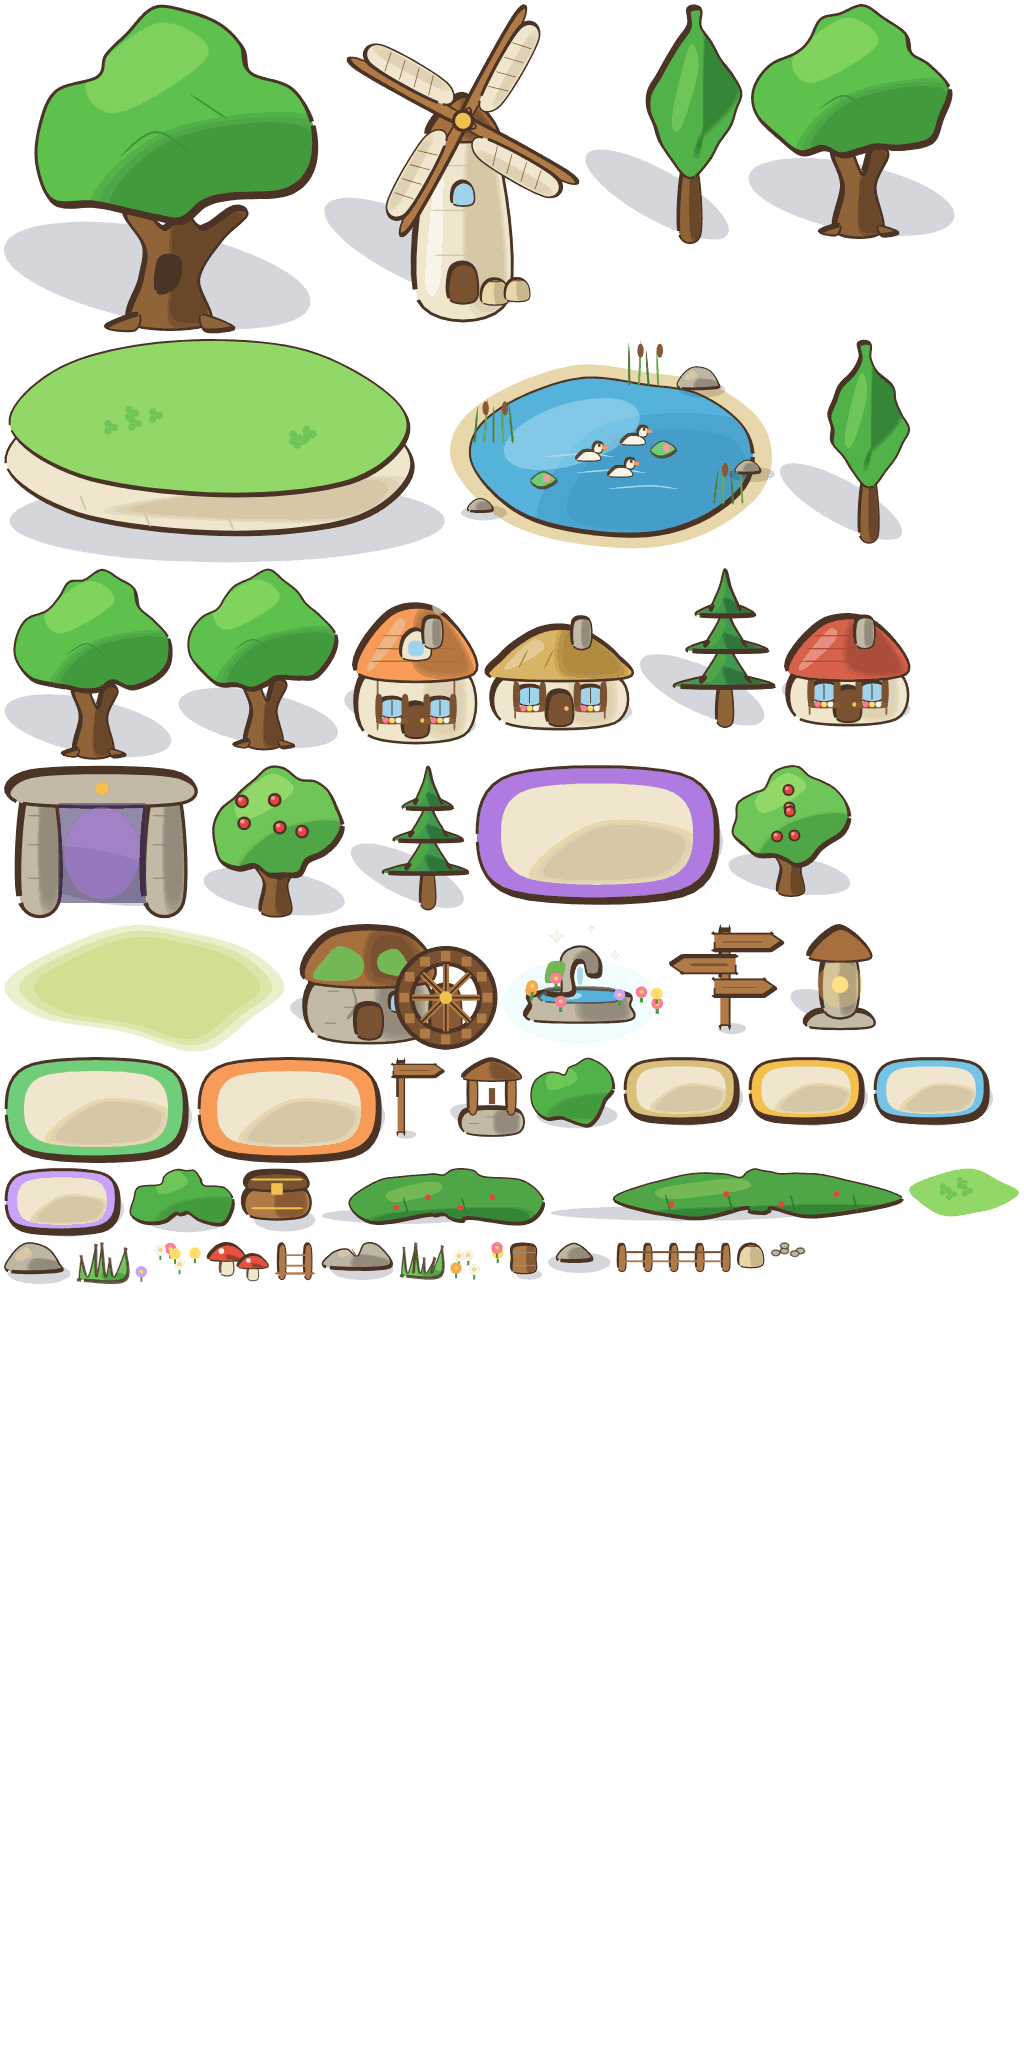
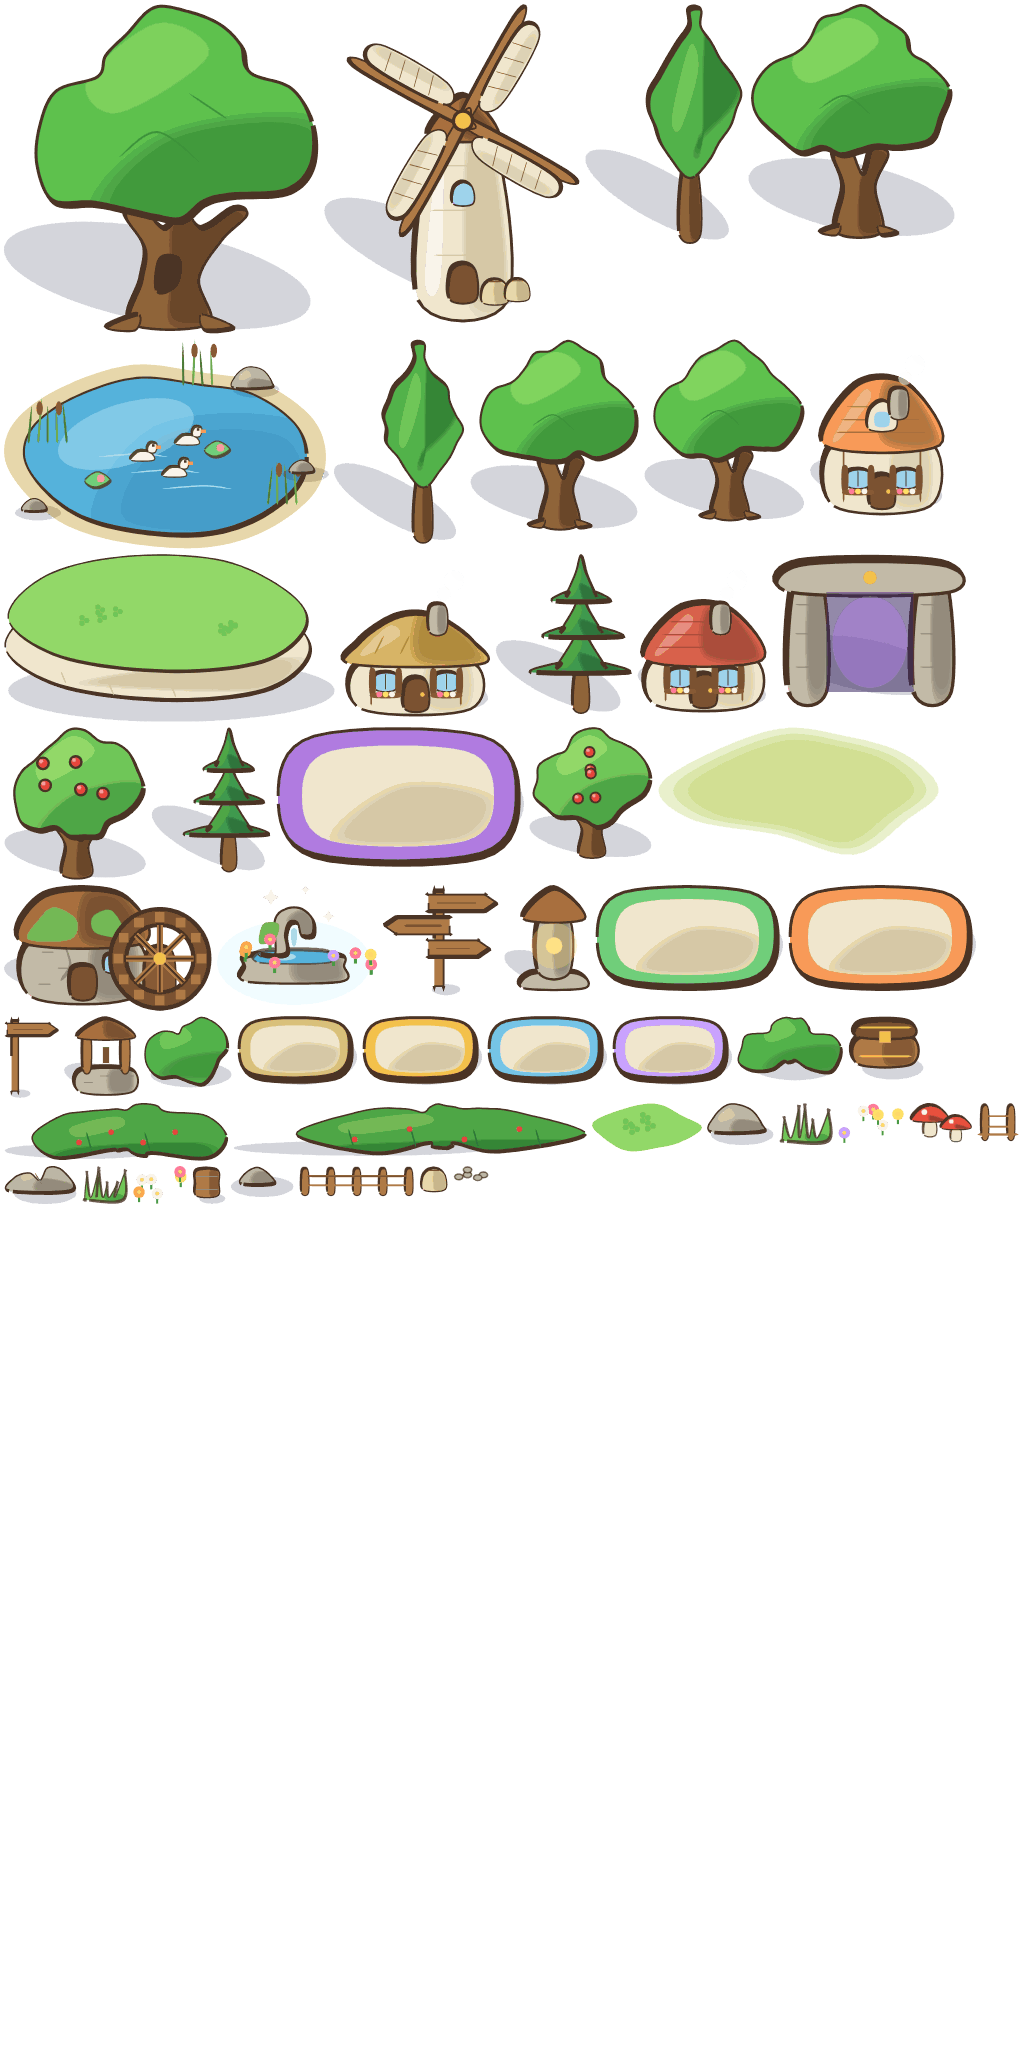
The Cloverfield kit's corrected placement (83 props inside the area's real bounds) and a smaller hill; the area's bounds and the hero's board size corrected in the art list

diff --git a/Game Developer/assets/board_meadows/NOTES.md b/Game Developer/assets/board_meadows/NOTES.md
@@ -1,43 +1,35 @@
 # The Cloverfield Meadows board kit
 
 Mitch, AD, 2026-11-01. Copy the whole folder. Sizes are design pixels (world pixels on the board); the files are 2x, so draw
-them at 0.5. 276 KB in all, against the area kit's 2.5 MB for board and fight together. Decoded: `board_props` 8 MB
+them at 0.5. About 280 KB in all, against the area kit's 2.5 MB for board and fight together. Decoded: `board_props` 8 MB
 (1024 by 2048), `board_ground` 4 MB, `cover` 1 MB.
 
-`puddlewick.jpg`, `crossroads.jpg` and `whole.jpg` are this kit laid on your real graph (world.json's hubs and roads, your
-`roadPoints` formula, 60 spots, camera at 0.8 and 0.27), by the studio's tool from these same atlases. They are not
-screenshots of the game.
+`puddlewick.jpg`, `crossroads.jpg` and `whole.jpg` are this kit laid on your real graph by the studio's tool, from these same
+atlases. They are not screenshots of the game.
 
 ## How to lay it
 
 - **Ground:** `ground_a` to `ground_d` at random per 128 px cell from the world seed, mostly a and b. They share one base
-  colour at their edges, so they mix without showing squares. Use `ground_worn` round hubs if you like; the `worn` prop does
-  the same job for less. Tiles are 1 px extruded; draw them 128 apart.
-- **Roads, two ways:** either repeat `road_straight` along the curve, turned to it (it has no directional shadow, so any angle
-  works), with `road_end` at each spot and `road_junction` at each hub; or stroke the curve in code with three lines, which
-  costs no texture and I would try it first: 30 px `#b4935a`, 25 px `#d9bb7e`, 10 px `#ecd49c` at 0.8 alpha, round joins.
-  `road_bend` and `road_fork` are there if you lay by pieces; the layout did not need them.
+  colour at their edges, so they mix without showing squares. Tiles are 1 px extruded.
+- **Roads:** stroke the curve in code with three lines: 30 px `#b4935a`, 25 px `#d9bb7e`, 10 px `#ecd49c` at 0.8 alpha, round
+  joins. Or repeat `road_straight` along the curve, turned to it, with `road_end` at each spot and `road_junction` at each hub.
 - **Spots:** `spot_<kind>`, the pivot at the centre, where the token stands: wild 56 wide, town and shop 90, chest, spring and
-  shrine 56, the gate 120. Clean plates with the kind in the rim's colour and nothing on them (Robin, 2026-11-01); the name or
-  kind comes from your tooltip on touch.
-- **Props:** pivot at the foot, shadows baked in. Sort by the foot's y, with the token in the same sort. Do not flip them: the
+  shrine 56, the gate 120. Clean plates with the kind in the rim's colour and nothing on them (Robin, 2026-11-01).
+- **Props:** pivot at the foot, shadows baked in. Sort by the foot's y with the token in the same sort. Do not flip them: the
   shadow falls to the lower right on every piece. `clover`, `worn` and `hill` are flat: draw them before the roads.
-- **Placement:** `placement_cloverfield.json` is every prop for the hand-laid area as `{ name, x, y, hub? }` in world pixels,
-  ready to load: the landmarks by their hubs and the seeded clusters. It keeps each piece's whole body clear of the roads and
-  spots. For grown areas the rule is in `tools/kit/board_test.js`: clusters of up to four pieces from one mix, 170 px apart,
-  190 from a hub (240 from a town), rejecting any place whose body would cover a road or a spot.
-- **The hill and the windmill:** draw `hill` flat, then the windmill stands on its top, as in the file.
-- **Cover:** `cover.png`, 256 square, seamless soft cloud, full colour; your 70 percent dark can go over it or be dropped.
-- **Cliff and rims:** `cliff` repeats sideways, its top meeting the upper ground. `rim_north` is the map's far edge with land
-  at the bottom; `rim_south` is the near edge with a low chalk face, drawn flipped vertically. No east or west rim and no
-  corners yet: tell me if the map's sides show and I will draw them.
+- **Placement:** `placement_cloverfield.json` lists every prop as `{ name, x, y, hub? }` in world pixels, ready to load. It keeps
+  each piece's whole body clear of the roads and spots and inside the area's bounds as the game reports them (x 140 to 1240,
+  stopping where Thornwood begins; y 2120 to 3592). The first version assumed the 1400 wide in `docs/art-demands.md` and put
+  props past the edge; replace it. For grown areas the rule is in `tools/kit/board_test.js`.
+- **The hill and the windmill:** draw `hill` flat; the windmill stands 40 px above the hill's foot, as in the file.
+- **Cover:** `cover.png`, 256 square, seamless soft cloud, full colour.
 - **Plates:** `name_plate.png` 120 by 28 and `area_banner.png` 400 by 60, for your words.
+- **Not needed for now:** `cliff`, `rim_north`, `rim_south`, `road_bend`, `road_fork` (the world has no heights or coast).
 
 ## Not tested, and left out
 
-Not yet seen in the game. The cliff and the rims were checked as repeats, not laid on a map, because the world data has no
-heights or coast; the area's hub layout decides whether they are needed at all. The horizon strips are left out (they are
-last in your list); `far.png` from the fight kit can stand in. The windmill's sails and the smoke do not move yet.
+The horizon strips are left out; `far.png` from the fight kit can stand in. The windmill's sails and the smoke do not move yet.
+The cliff and the rims were checked as repeats only.
 
 ## The props and the spots (`board_props`, pivot at the foot)
 
@@ -78,7 +70,7 @@ last in your list); `far.png` from the fight kit can stand in. The windmill's sa
 | `signpost_one` | wild ground | 29 by 42 | 6, 38 |
 | `signpost_three` | Clover Crossroads | 59 by 57 | 29, 51 |
 | `stile` | Hedgerow | 22 by 21 | 11, 18 |
-| `hill` | Windmill Hill, under the windmill; a flat piece, draw it before the roads; its top is 34 design px above the foot x 1.6 | 222 by 113 | 103, 101 |
+| `hill` | Windmill Hill, under the windmill; a flat piece, draw it before the roads; the windmill stands 40 design px above its foot | 167 by 85 | 77, 76 |
 | `windmill` | Windmill Hill | 129 by 161 | 70, 149 |
 | `old_mill` | Old Mill | 105 by 64 | 40, 57 |
 | `pond` | Duck Pond | 164 by 106 | 83, 92 |

diff --git a/Game Developer/docs/art-demands.md b/Game Developer/docs/art-demands.md
@@ -79,15 +79,16 @@ character may take an atlas of 2048 by 2048 (my word, 2026-11-01: 16 MB decoded;
   whoosh, counter flash, charge glow, poison drip, chill, burn, weaken, heal glow, mana sparkle, the wind-up tell over an
   enemy's head, the level-up burst.
 - **The player's height on screen** is Robin's to confirm from the test shots (100 CSS px was the old number; his own sheet
-  stood 118). On the board the hero stands at 0.3 of the fight's size (Mitch, AD's number for the test).
+  stood 118). On the board the hero stands at half the fight's size, 75 CSS px, against the 56 px plates (mine, 2026-11-01; Robin said "whatever works best" and can overrule).
 
 ## Wave 3 (chapter 1): Cloverfield Meadows, complete
 
 ### 3a. The meadows' board kit
 
 The board is seen from a raised camera in 2D (the brief, "The look"): a tilted ground with cliff faces where the land
-steps up, roads flat on it, everything standing on it upright. Cloverfield Meadows is one cell of 1400 by 1900 world
-pixels with 60 spots; the ground is tiles and strips, never one picture.
+steps up, roads flat on it, everything standing on it upright. Cloverfield Meadows' bounds are x 140 to 1260 and y 2120 to
+3592 world pixels (1120 by 1472; the brief's 1400 by 1900 was a first guess, corrected 2026-11-01) with 60 spots; the ground is
+tiles and strips, never one picture.
 
 | Piece | Count | Size | Notes |
 | --- | --- | --- | --- |
